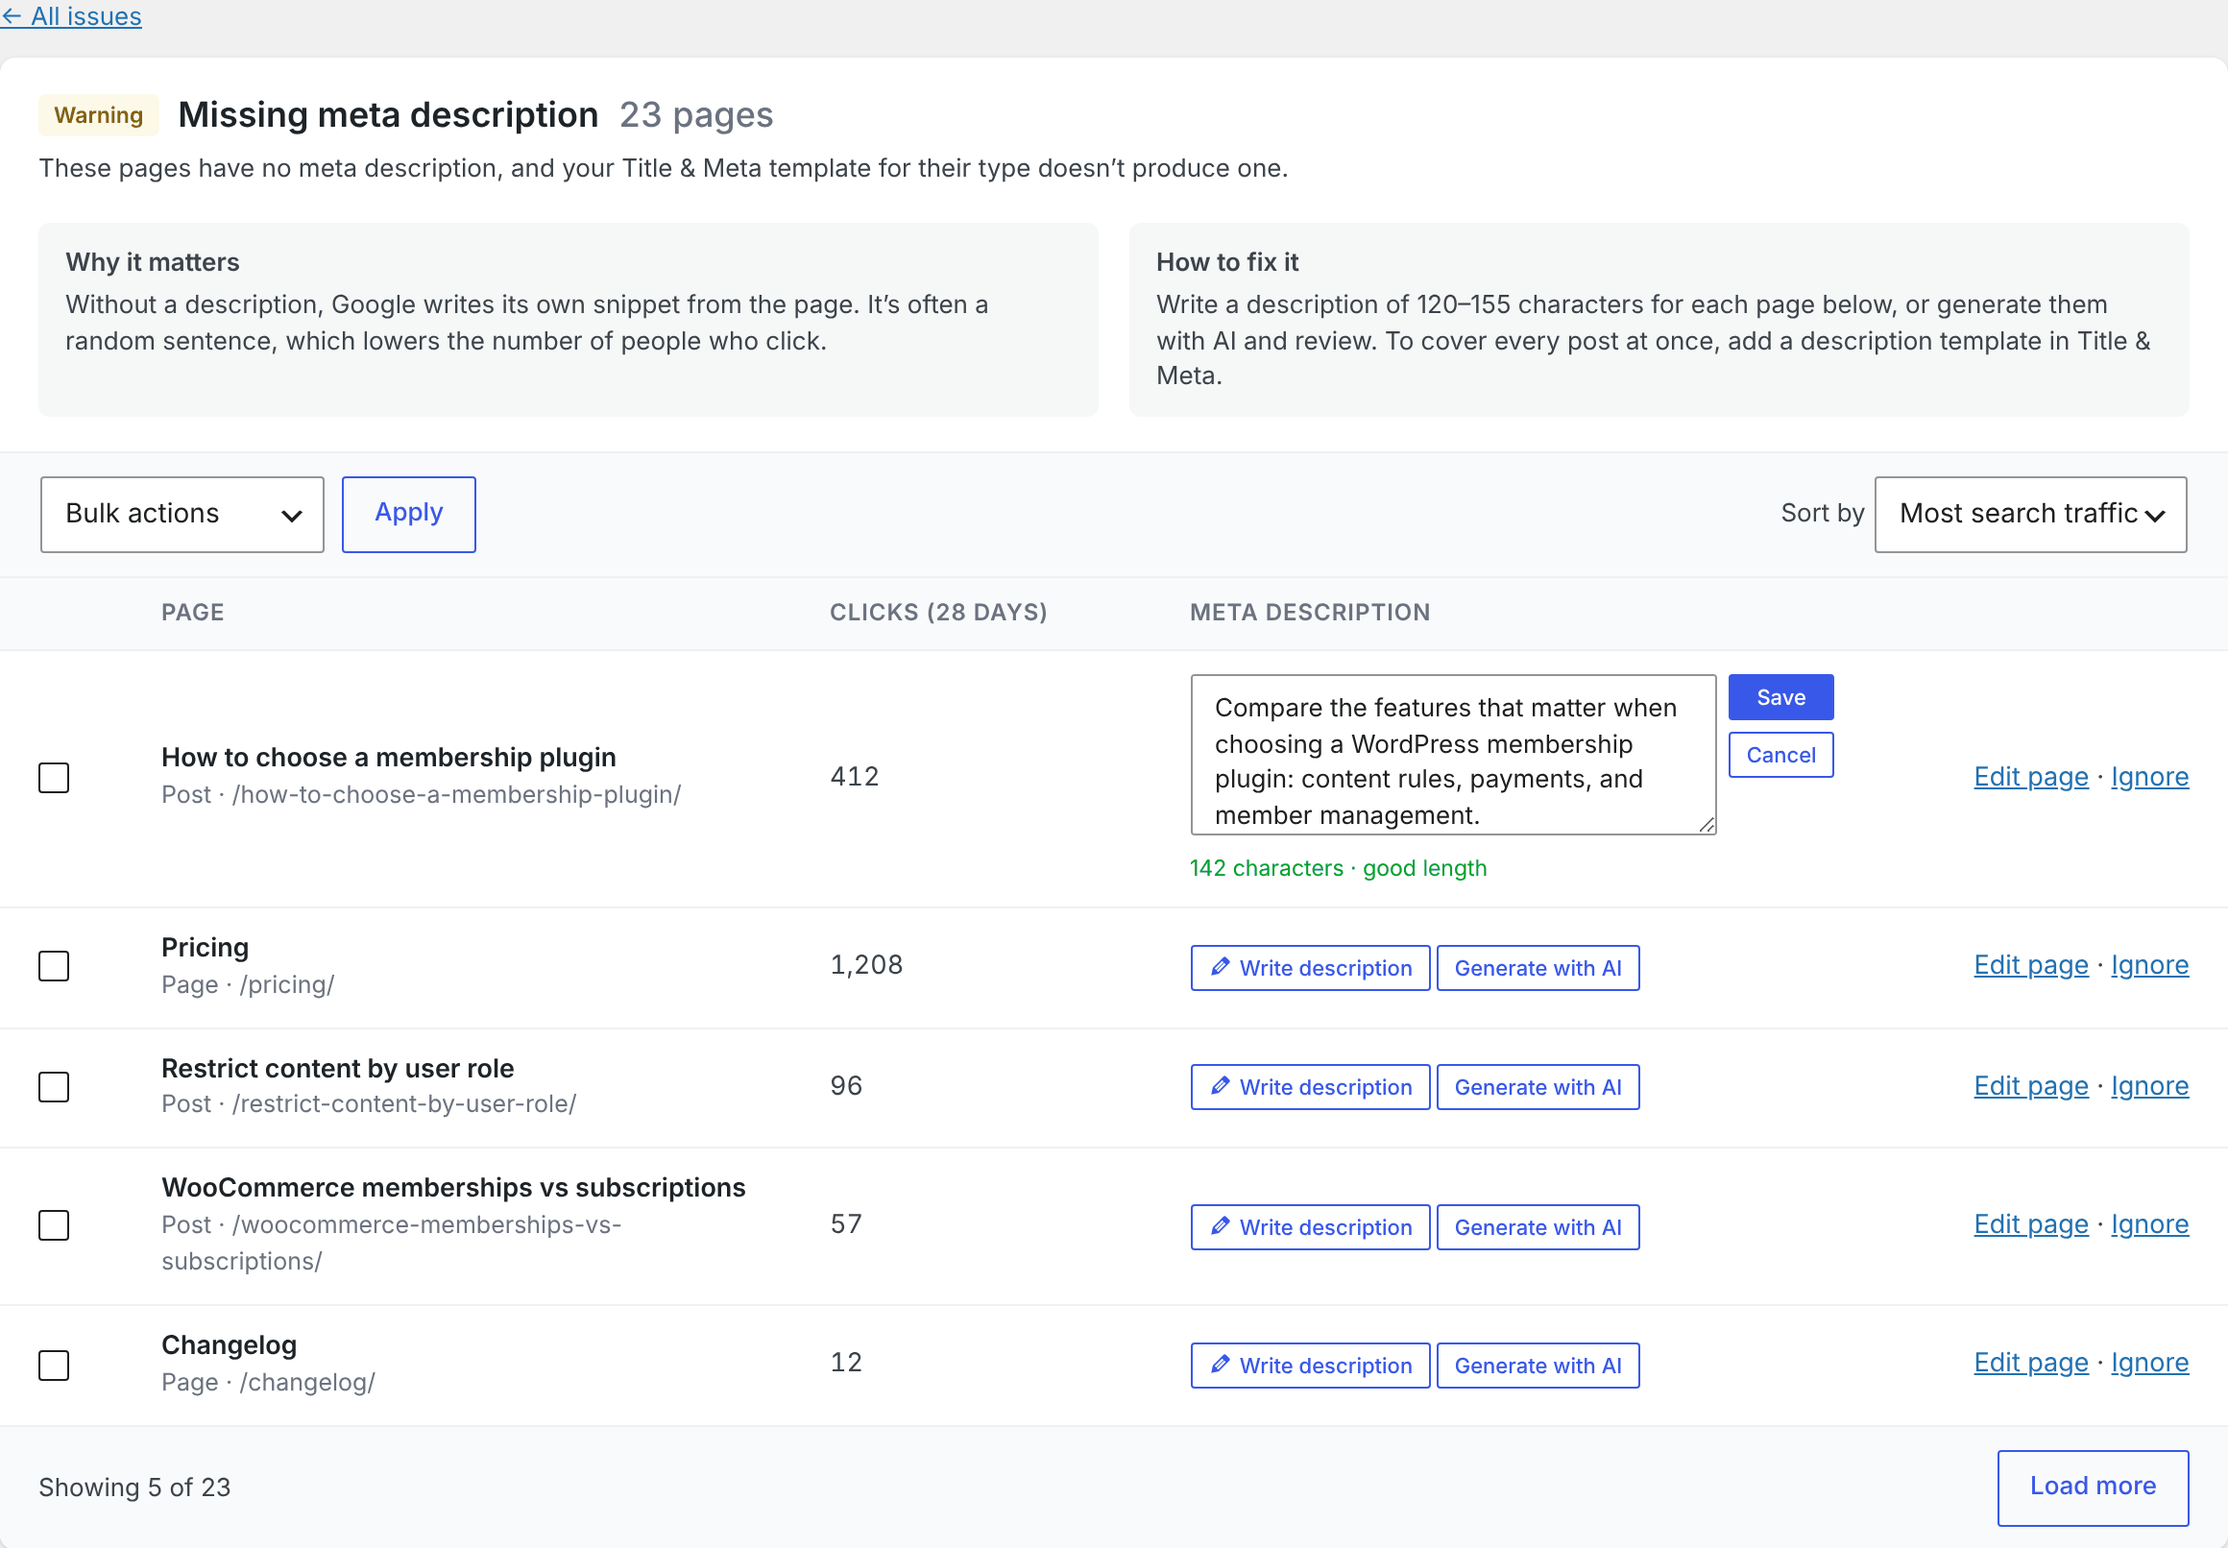
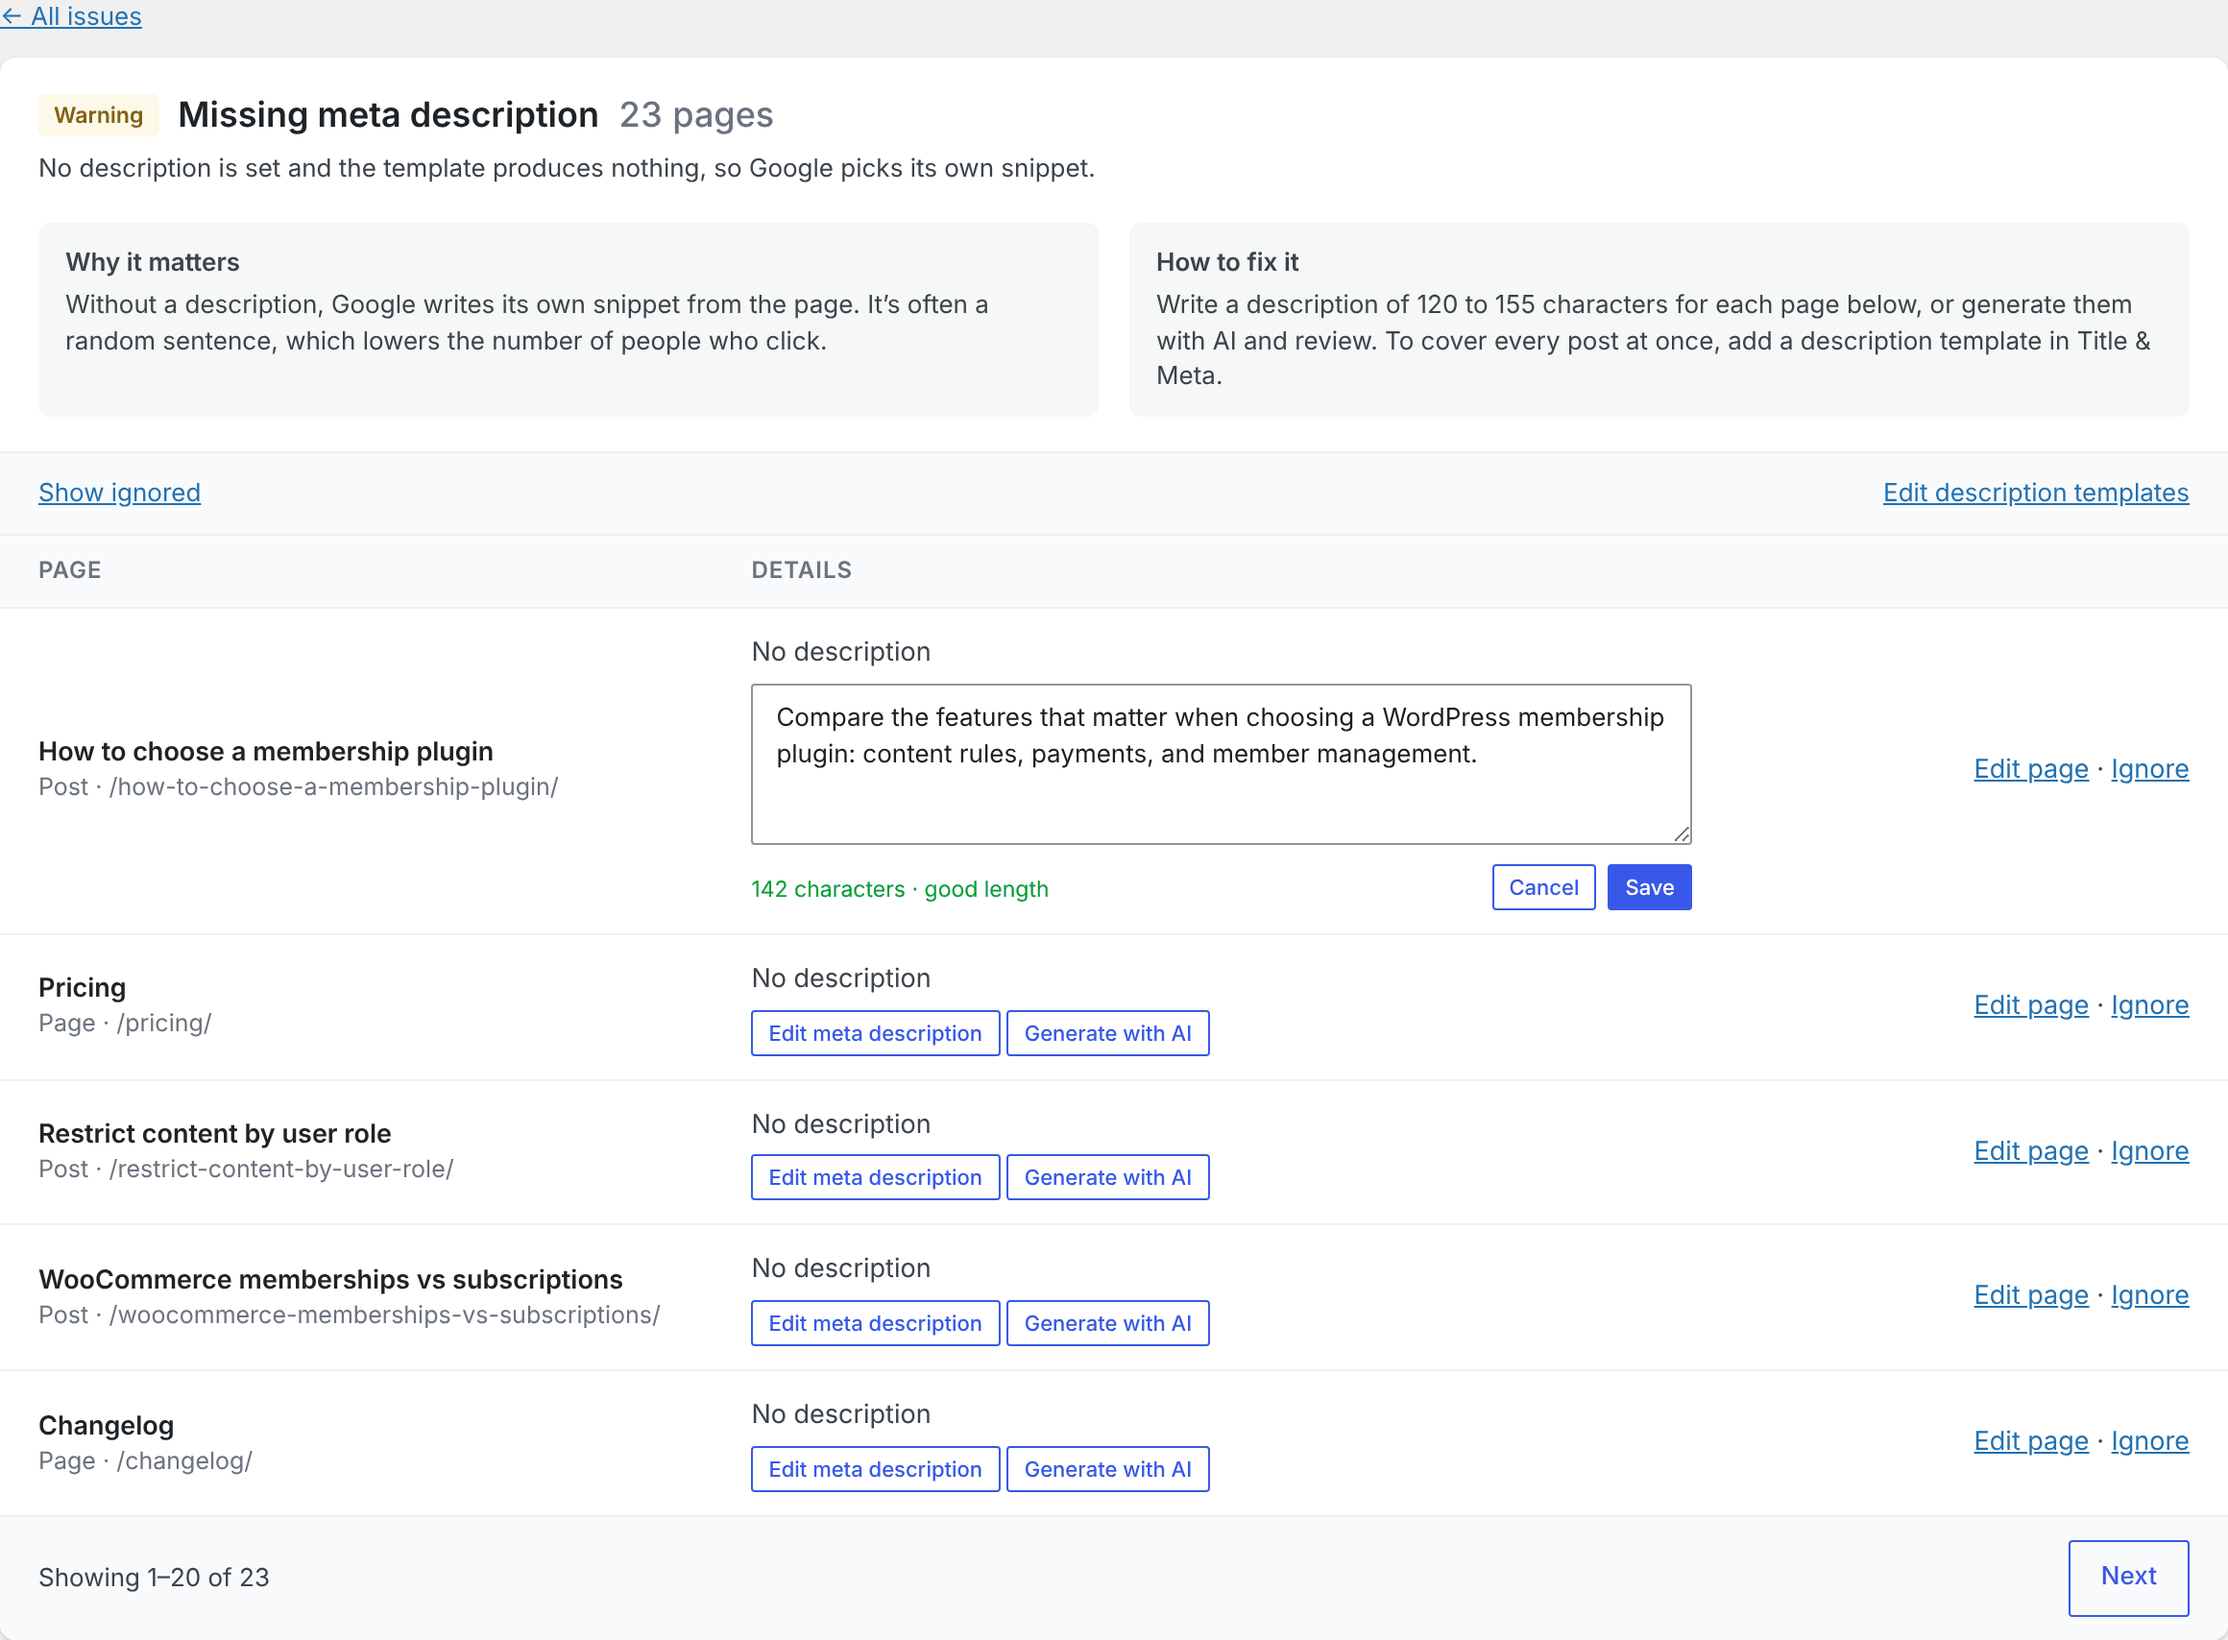
Site Audit: accurate upgrade page, full uninstall cleanup
- Upgrade page copy and screenshots now match what the audit does (no
  "most traffic first", no missing-title check, no bulk actions).
- Uninstall without Premium also drops the Site Audit tables and clears
  its scheduled jobs.

Claude-Session: https://claude.ai/code/session_017tJiCWYPCAhusPQpTGU1bR

diff --git a/src/Views/UpsellAdminPages.php b/src/Views/UpsellAdminPages.php
@@ -168,7 +168,7 @@ class UpsellAdminPages
 
 		$checks = [
 			__('Broken internal and outbound links', 'mihdan-index-now'),
-			__('Duplicate and missing titles and meta descriptions', 'mihdan-index-now'),
+			__('Duplicate titles, and missing or duplicate meta descriptions', 'mihdan-index-now'),
 			__('Orphan pages no other page links to', 'mihdan-index-now'),
 			__('Canonical URLs that point to a redirect or a missing page', 'mihdan-index-now'),
 			__('404 errors without a redirect, and redirect chains', 'mihdan-index-now'),
@@ -198,7 +198,7 @@ class UpsellAdminPages
 		$html .= '<img src="' . esc_url(Utils::get_plugin_asset_url('images/crawlwp-site-audit-issue.png')) . '" alt="' . esc_attr__('Fixing missing meta descriptions directly from the Site Audit', 'mihdan-index-now') . '">';
 		$html .= '</div>';
 		$html .= sprintf('<h3>%s</h3>', esc_html__('Fix Problems Where You Find Them', 'mihdan-index-now'));
-		$html .= sprintf('<p>%s</p>', esc_html__('Write a missing meta description or shorten a long title right in the list, or generate it with AI, without opening each post. Pages that get the most search traffic come first, and you get an email when new errors appear.', 'mihdan-index-now'));
+		$html .= sprintf('<p>%s</p>', esc_html__('Write a missing meta description or shorten a long title right in the list, or generate it with AI, without opening each post. Ignore what doesn\'t apply, watch your health score rise as you fix things, and get an email when new errors appear.', 'mihdan-index-now'));
 		$html .= $button;
 		$html .= '</div>';
 		$html .= '</div>';

diff --git a/uninstall.php b/uninstall.php
@@ -100,6 +100,8 @@ function crawlwp_lite_mo_uninstall_function($force = false)
 
 	if ( ! $keep_pro) {
 		$cron_hooks[] = 'crawlwp_video_sitemap_backfill';
+		$cron_hooks[] = 'crawlwp_site_audit_step';
+		$cron_hooks[] = 'crawlwp_site_audit_weekly';
 	}
 
 	foreach ($cron_hooks as $cron_hook) {
@@ -120,8 +122,12 @@ function crawlwp_lite_mo_uninstall_function($force = false)
 	];
 
 	if ( ! $keep_pro) {
-		// Orphaned Premium table (Premium is no longer installed to remove it).
+		// Orphaned Premium tables (Premium is no longer installed to remove them).
 		$drop_tables[] = "DROP TABLE IF EXISTS {$wpdb->prefix}crawlwp_autoindex";
+
+		foreach (['pages', 'links', 'issues', 'ignored'] as $audit_table) {
+			$drop_tables[] = "DROP TABLE IF EXISTS {$wpdb->prefix}crawlwp_audit_{$audit_table}";
+		}
 	}
 
 	foreach ($drop_tables as $sql) {
